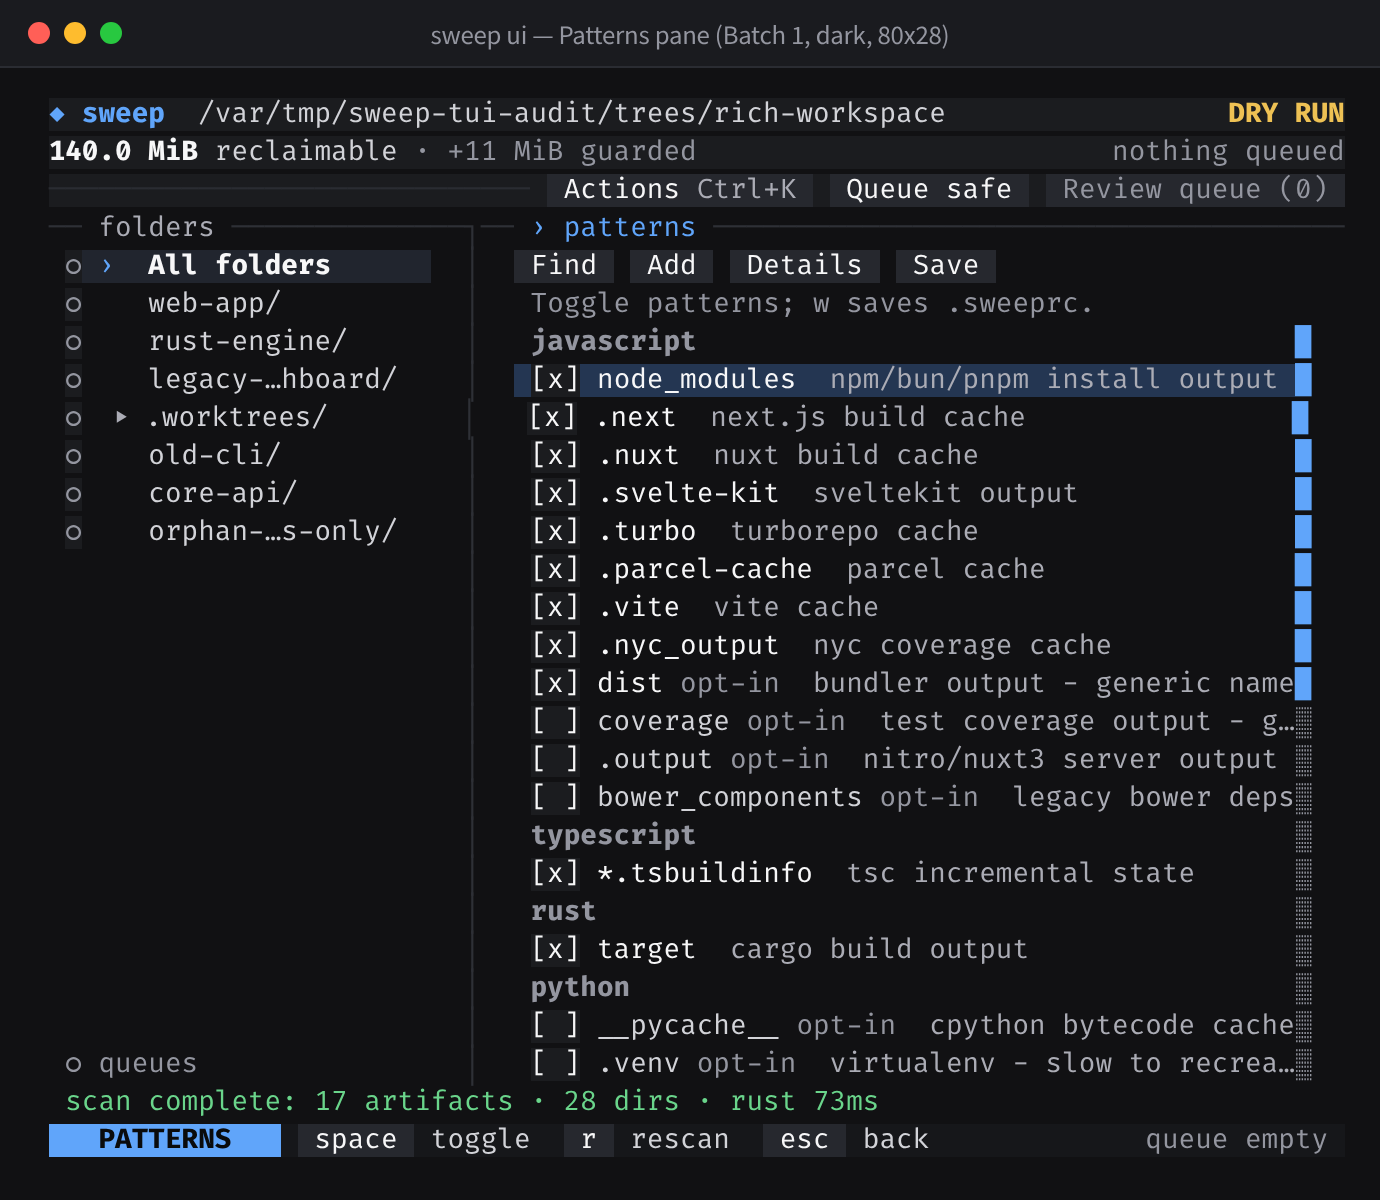
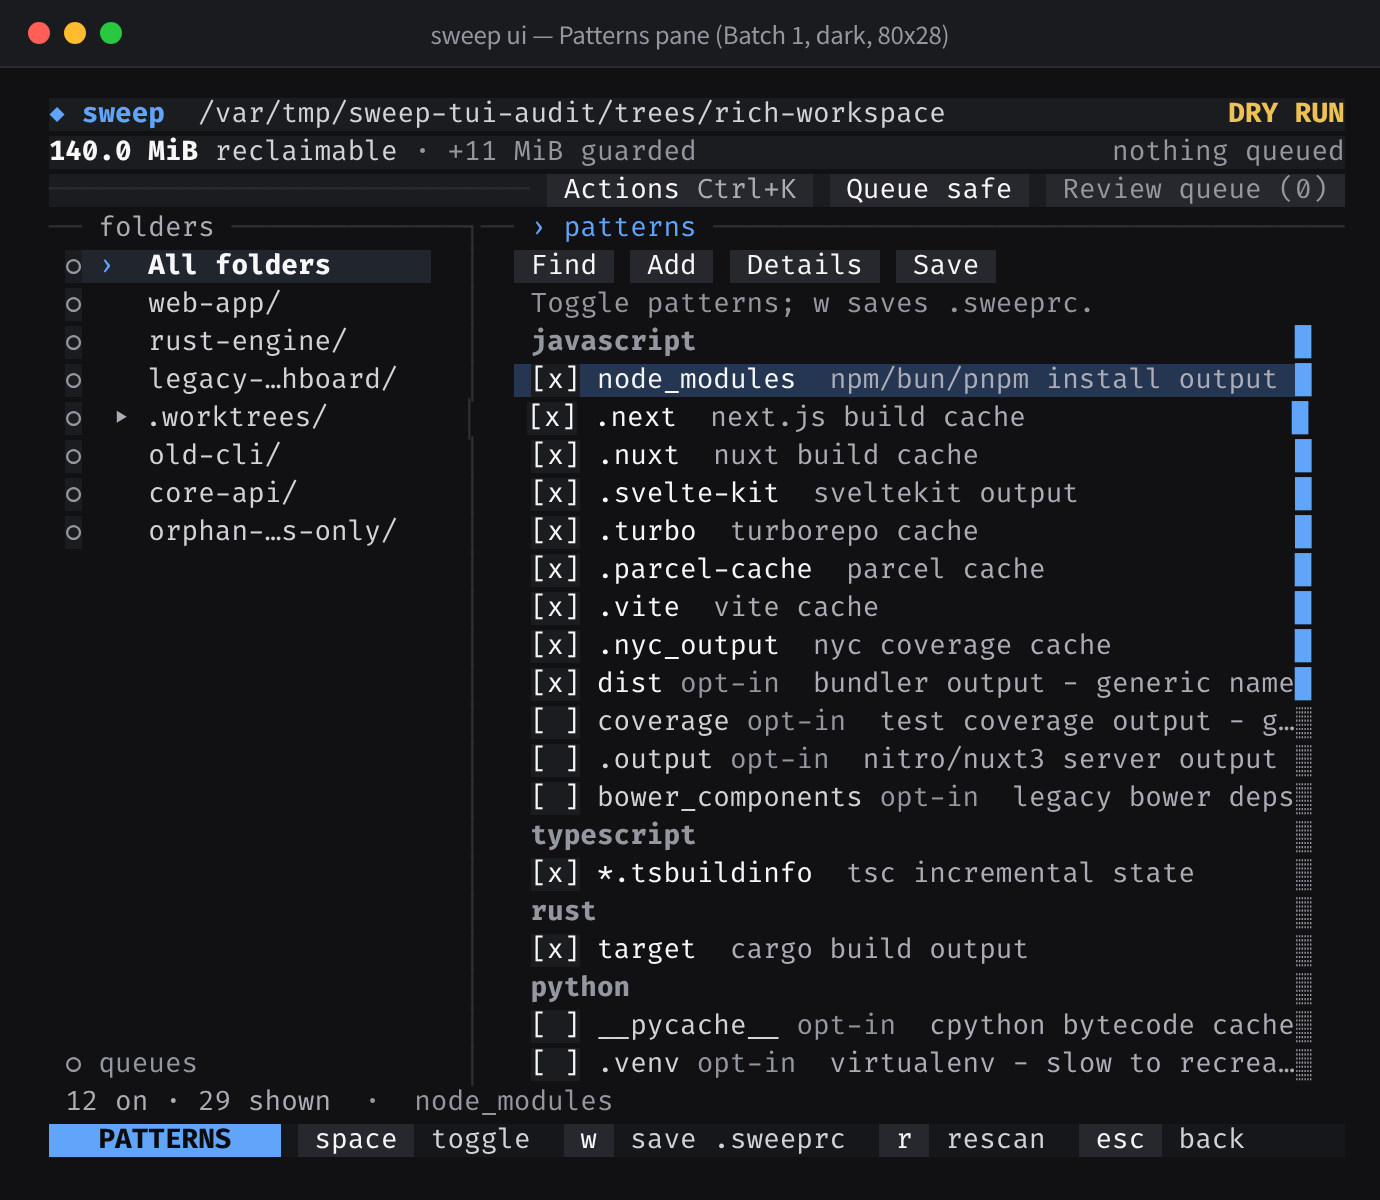
fix(ui): yield passive empty tally before dropping pattern hints

Changed region(s): [[0.2804, 0.8942, 0.7478, 0.9558], [0.0312, 0.8942, 0.2493, 0.925], [0.8101, 0.925, 0.9659, 0.9558]]

diff --git a/packages/ui/src/presentation.ts b/packages/ui/src/presentation.ts
@@ -837,9 +837,9 @@ export function footerHintItems(
     case "patterns":
       return [
         h("space", "toggle", press("space"), 1),
-        h("/", "find", press("/"), 4),
-        h("a", "add", press("a"), 3),
-        h("d", "del custom", press("d"), 5),
+        h("/", "find", press("/"), 3),
+        h("a", "add", press("a"), 4),
+        h("d", "del custom", press("d"), 3),
         h("w", "save .sweeprc", press("w"), 2),
         h("r", options.patternsDirty ? "rescan*" : "rescan", press("r"), 1),
         h("esc", "back", press("escape"), 0),
@@ -924,6 +924,8 @@ export function fitStatusLine(options: {
   modeWidth: number;
   hints: readonly FooterHint[];
   tallyWidth: number;
+  /** Passive empty-queue text ("queue empty") yields before any key hint drops. */
+  tallyPassive?: boolean;
   riskChipWidth?: number;
   scopeChipWidth?: number;
   variant?: "caps" | "plain";
@@ -949,13 +951,16 @@ export function fitStatusLine(options: {
       0,
     );
 
+  const fullHintsWidth = listWidth(options.hints);
   const coreHints = options.hints.filter((hint) => (hint.priority ?? 2) <= 1);
   const coreWidth = listWidth(coreHints.length > 0 ? coreHints : options.hints.slice(0, 2));
 
-  const showTally = tallyReserve > 0 && innerBudget - tallyReserve >= coreWidth;
+  // Action hints outrank passive empty-queue status text: drop "queue empty"
+  // before dropping any key hint. Active queue tallies stay visible while core hints fit.
+  const minHintsForTally = options.tallyPassive ? fullHintsWidth : coreWidth;
+  const showTally = tallyReserve > 0 && innerBudget - tallyReserve >= minHintsForTally;
   let remaining = innerBudget - (showTally ? tallyReserve : 0);
 
-  const fullHintsWidth = listWidth(options.hints);
   let showRiskChip = false;
   let showScopeChip = false;
   if (riskReserve > 0 && fullHintsWidth + riskReserve <= remaining) {

diff --git a/packages/ui/src/presentation.test.ts b/packages/ui/src/presentation.test.ts
@@ -523,6 +523,7 @@ describe("B1 & B11: statusline fitting and live-scan context line", () => {
         modeWidth: 14,
         hints,
         tallyWidth: 11,
+        tallyPassive: true,
       });
       const hintsWidth = fitted.hints.reduce(
         (sum, hint, idx) => sum + (idx > 0 ? 2 : 0) + footerHintWidth(hint),
@@ -531,6 +532,19 @@ describe("B1 & B11: statusline fitting and live-scan context line", () => {
       const tallyReserve = fitted.showTally ? 14 : 0;
       expect(14 + 1 + hintsWidth + tallyReserve).toBeLessThanOrEqual(totalWidth);
       expect(fitted.hints.some((h) => h.key === "esc")).toBe(true);
+    }
+    // Action hints outrank passive "queue empty": both / find and d del custom stay visible at 100 and 120 cols.
+    for (const totalWidth of [98, 118]) {
+      const fitted = fitStatusLine({
+        totalWidth,
+        modeWidth: 14,
+        hints,
+        tallyWidth: 11,
+        tallyPassive: true,
+      });
+      expect(fitted.showTally, `totalWidth=${totalWidth}`).toBe(false);
+      expect(fitted.hints.some((h) => h.key === "/" && h.label === "find")).toBe(true);
+      expect(fitted.hints.some((h) => h.key === "d" && h.label === "del custom")).toBe(true);
     }
     expect(fitFooterHints(hints, 30).every((h) => footerHintWidth(h) <= 30)).toBe(true);
   });

diff --git a/packages/ui/src/modal-shell.test.tsx b/packages/ui/src/modal-shell.test.tsx
@@ -341,6 +341,13 @@ describe("Batch 1 layout and trust bug fixes", () => {
       const statusLine = frame.replace(/\n$/, "").split("\n").at(-1) ?? "";
       expect(statusLine, `width=${width}`).toContain("PATTERNS");
       expect(statusLine, `width=${width}`).toContain(" esc  back");
+      // Action hints outrank passive "queue empty": at 100 and 120 cols with an empty queue,
+      // both `/ find` and `d del custom` remain visible without colliding.
+      if (width >= 100) {
+        expect(statusLine, `width=${width}`).toContain(" /  find");
+        expect(statusLine, `width=${width}`).toContain(" d  del custom");
+        expect(statusLine, `width=${width}`).not.toContain("queue empty");
+      }
       // Never collide left hints into right tally or clip .sweeprc mid-word.
       expect(frame, `width=${width}`).not.toContain("queuenem");
       expect(frame, `width=${width}`).not.toMatch(/save \.swe(?!eprc)/);

diff --git a/packages/ui/src/app.tsx b/packages/ui/src/app.tsx
@@ -1604,6 +1604,7 @@ export function SweepApp({
     modeWidth: statusModeWidth,
     hints: footerHints,
     tallyWidth: dimensions.width >= 72 ? styledWidth(tallyContent) : 0,
+    tallyPassive: summary.selectedCount === 0,
     ...(riskChipContent ? { riskChipWidth: styledWidth(riskChipContent) } : {}),
     ...(scopeChipContent ? { scopeChipWidth: styledWidth(scopeChipContent) } : {}),
   });
